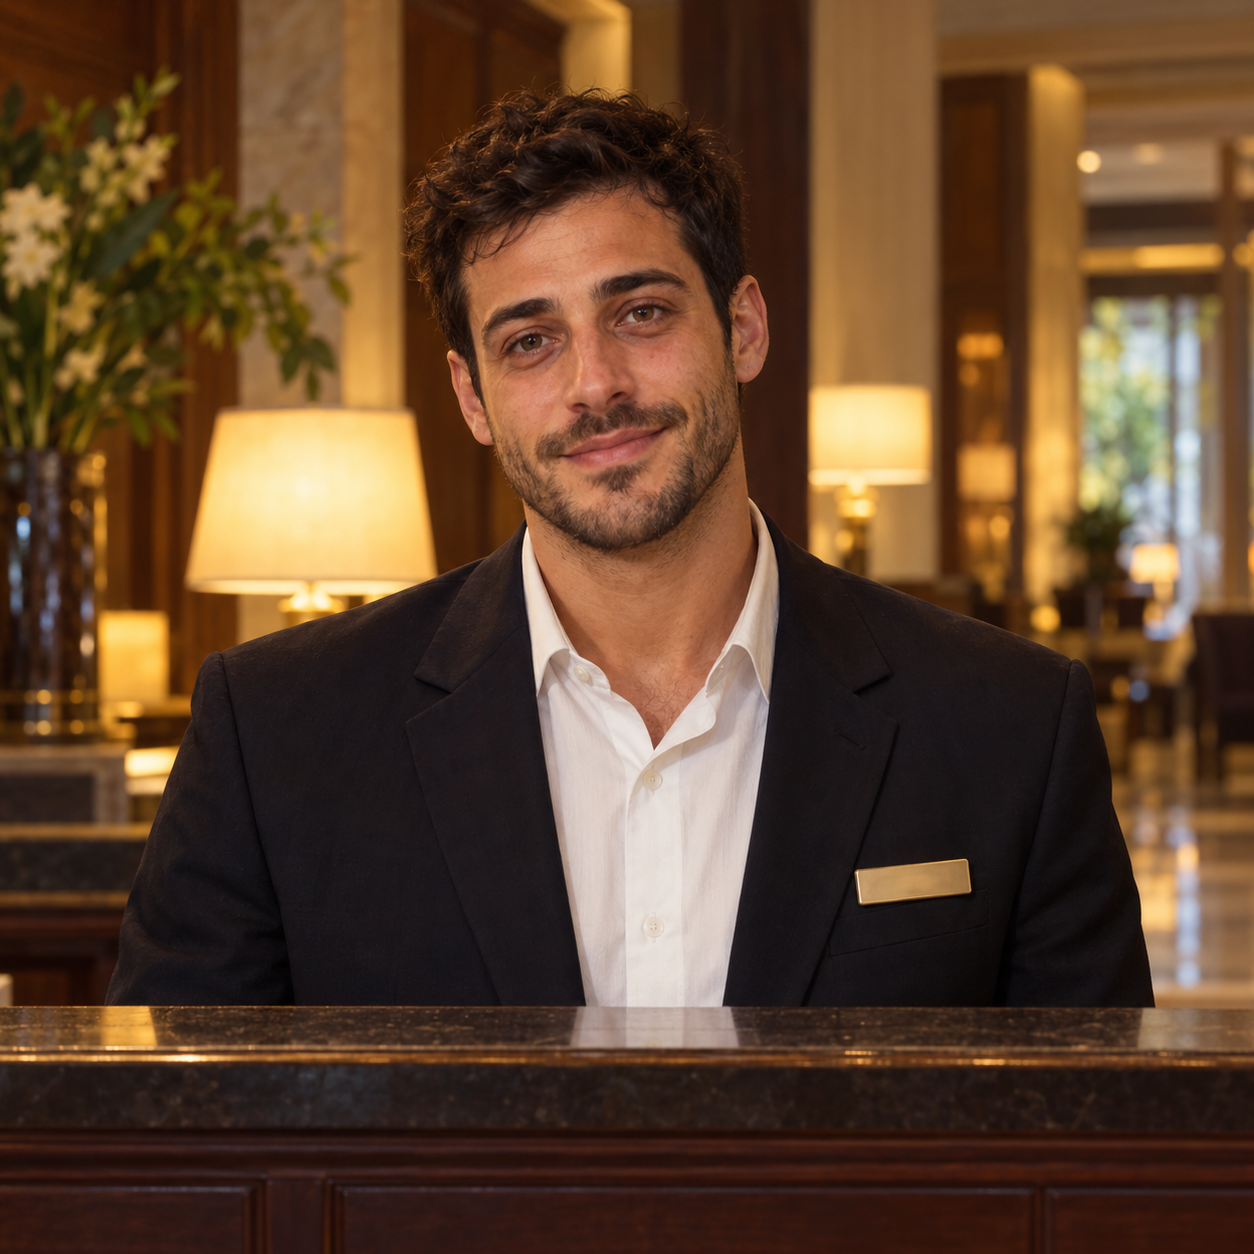
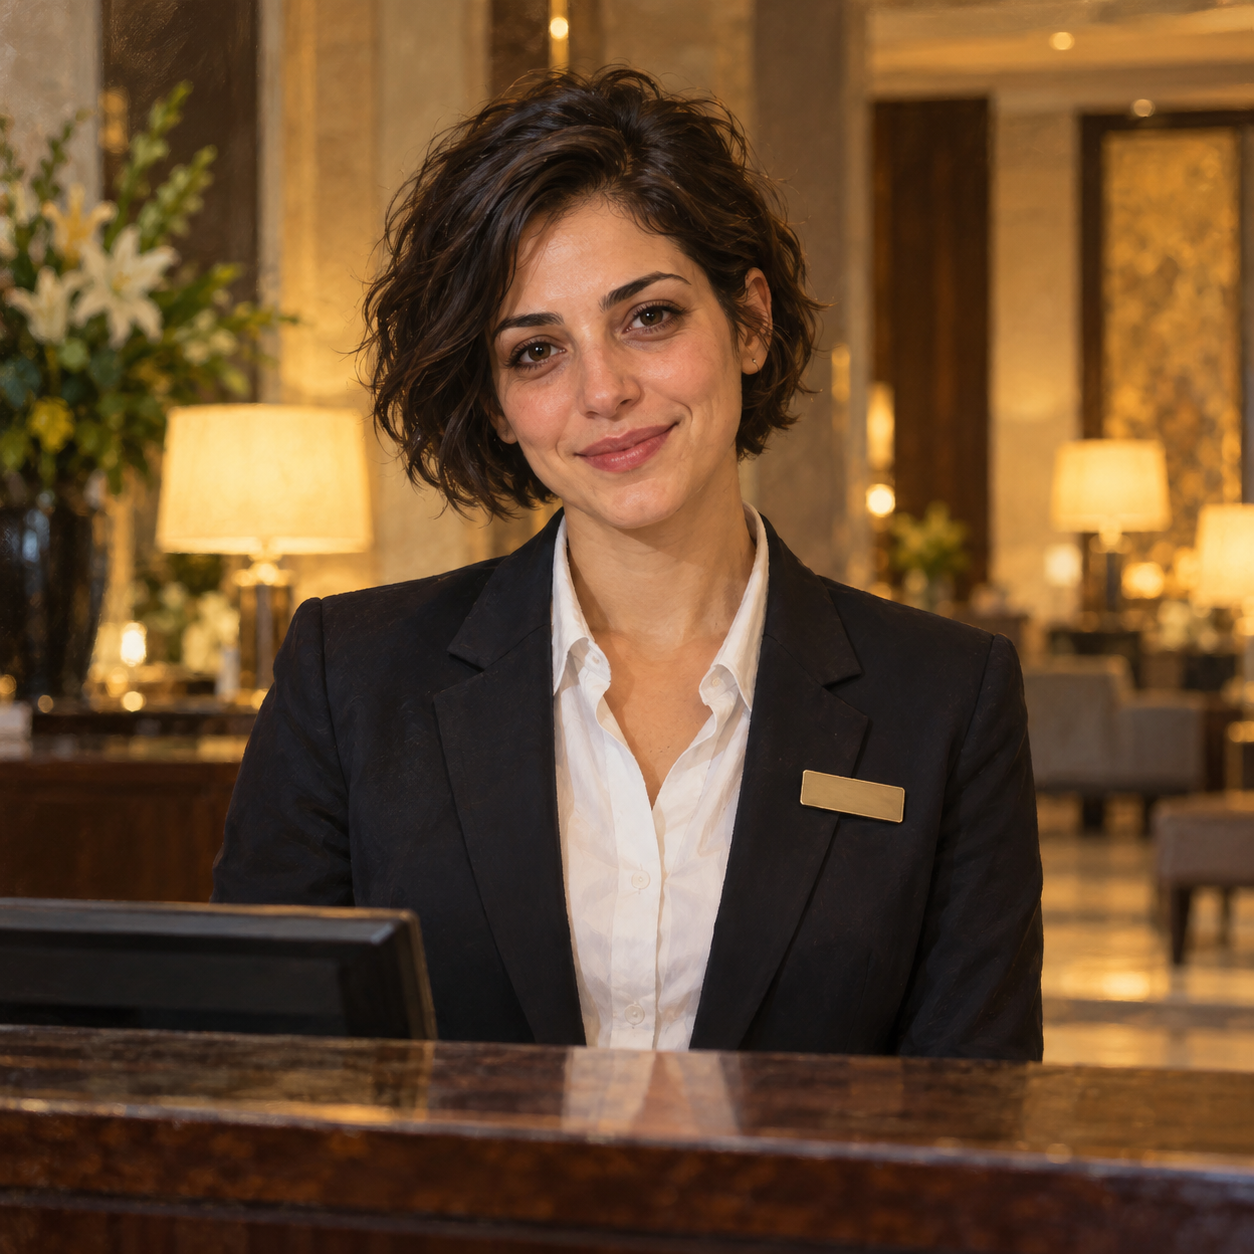
Hotel: the night clerk checks you in, the morning clerk has your message
Claude-Session: https://claude.ai/code/session_01L1pMk9pvWmofH5XXpyXNuy

diff --git a/app/www/js/fsy-act1.js b/app/www/js/fsy-act1.js
@@ -7,7 +7,7 @@
   const Lamp = window.Lamp; const FW = Lamp.fsyWalk; if (!FW) return;
   const H = FW.H, C = FW.core, W = FW.W, K = Lamp.adv.kit, F = Lamp.fsy.parts, esc = K.esc, $ = (id) => document.getElementById(id);
   const PP = "img/fsy/people/";
-  const PORTRAITS = new Set(["clerk", "soldier", "cardseller", "grandma", "grandma2", "yosef", "gabriel", "guide", "violinist", "halva", "baker", "dudu", "coffeeman", "fishman", "officer", "deskclerk"]);   /* the people Richard has drawn (img/fsy/people/<id>.jpg); the rest show as lettered medallions */
+  const PORTRAITS = new Set(["clerk", "soldier", "cardseller", "grandma", "grandma2", "yosef", "gabriel", "guide", "violinist", "halva", "baker", "dudu", "coffeeman", "fishman", "officer", "deskclerk", "dayclerk"]);   /* the people Richard has drawn (img/fsy/people/<id>.jpg); the rest show as lettered medallions */
   const save = () => Lamp.save();
   /* adventure state, inside the episode's save */
   const A = () => { const w = W(); if (!w.a) w.a = { money: 100, items: {}, rides: 0, facts: [], asked: {}, q: {}, f: {}, rode: {} }; return w.a; };
@@ -142,13 +142,18 @@
     ] },
     grandma2: { name: "Dudu’s grandmother", kick: "The tram stop by the market", when: (a) => a.q.dudu === 2 && a.items.loaf && a.items.coffee && a.items.fish, desc: "At the stop at the end of the lane, bags at her feet, looking for a boy with a football.", lines: [
       { id: "back", say: "I’ve brought Dudu. And the shopping.", run: () => { A().q.dudu = 3; delete A().items.loaf; delete A().items.coffee; delete A().items.fish; save();
-        reply("grandma2", "<i>You hand her the bread, the coffee and the fish: they leave your backpack.</i> “You brought him back and you brought the fish.” She takes the bags, then takes your hand. “I will tell you something for that.” From her purse, a folded paper. “My prayer. I go to the tunnel every week, to the place opposite the Holy of Holies, and I put it in the Wall. This week you put it in for me.” She closes your fingers over it. “And when you are there, look up.”", { clip: "grandma2", leave: () => { H.earn(45, "Dudu’s grandmother"); give("note"); fact("note", "Put the grandmother’s prayer in the Wall opposite the Holy of Holies, in the tunnels. Then look up."); } }); } },
+        reply("grandma2", "(You hand her the bread, the coffee and the fish: they leave your backpack.) “You brought him back and you brought the fish.” She takes the bags, then takes your hand. “I will tell you something for that.” From her purse, a folded paper. “My prayer. I go to the tunnel every week, to the place opposite the Holy of Holies, and I put it in the Wall. This week you put it in for me.” She closes your fingers over it. “And when you are there, look up.”", { clip: "grandma2", leave: () => { H.earn(45, "Dudu’s grandmother"); give("note"); fact("note", "Put the grandmother’s prayer in the Wall opposite the Holy of Holies, in the tunnels. Then look up."); } }); } },
     ] },
-    deskclerk: { name: "The desk clerk", kick: "The Jerusalem Hotel", desc: "A young man in a dark blazer with a name badge, tired eyes, a kind smile. He has seen every kind of pilgrim.", lines: [
-      { id: "checkin", say: "I'd like to check in.", when: (a) => !a.q.checkedIn, run: () => { A().q.checkedIn = 1; save(); give("roomkey"); reply("deskclerk", "“Welcome. Your name?” He types, and looks up. “Yes. Three nights, already paid. An older gentleman came by this afternoon and paid in cash. No name. He said you would be tired.” He slides a key card across the desk. “Room 412. The lift is on the left.”"); } },
-      { id: "way", say: "How do I get to the Old City in the morning?", when: (a) => a.q.checkedIn, run: () => { A().q.hotelWay = 1; save(); reply("deskclerk", "“The tram to City Hall, then walk down Jaffa Road: ten minutes to Jaffa Gate. Go early, before the tour buses.” He taps the window. “And do the walls in the morning. There is a storm coming in the afternoon, a big one.”"); fact("storm", "The desk clerk: go up on the walls in the morning; a big storm is coming in the afternoon."); } },
-      { id: "see", say: "What should I see first?", when: (a) => a.q.checkedIn, run: () => { A().q.hotelSee = 1; save(); reply("deskclerk", "“Go in at Jaffa Gate and up on the walls: the Ramparts Walk. The ticket office is beside the Tower of David. From up there you can count the towers and see the whole city.” He smiles. “And if you go down to the Wall, cover your head.”"); } },
-      { id: "grey", say: "Has anyone asked for me?", when: (a) => a.q.checkedIn, run: () => { A().q.hotelGrey = 1; save(); reply("deskclerk", "He hesitates. “A man telephoned this evening. Very polite. He asked whether a guest had checked in carrying an old book. I told him we do not discuss our guests.” He lowers his voice. “He knew which flight you came on.”"); fact("greyhotel", "The man in grey telephoned the hotel asking for you. He knew your flight."); } },
+    deskclerk: { name: "The night clerk", kick: "The Jerusalem Hotel", when: (a) => !a.q.slept, desc: "A young woman in a dark blazer, short dark curls, a brass name badge, a kind and tired smile. She has seen every kind of pilgrim.", lines: [
+      { id: "checkin", say: "I'd like to check in.", when: (a) => !a.q.checkedIn, run: () => { A().q.checkedIn = 1; save(); give("roomkey"); reply("deskclerk", "“Welcome. Your name?” She types, and looks up. “Yes. Three nights, already paid. An older gentleman came by this afternoon and paid in cash. No name. He said you would be tired.” She slides a key card across the desk. “Room 412. The lift is on the left.”"); } },
+      { id: "way", say: "How do I get to the Old City in the morning?", when: (a) => a.q.checkedIn, run: () => { A().q.hotelWay = 1; save(); reply("deskclerk", "“The tram to City Hall, then walk down Jaffa Road: ten minutes to Jaffa Gate. Go early, before the tour buses.” She nods at the window. “And do the walls in the morning. There is a storm coming in the afternoon, a big one.”"); fact("storm", "The desk clerk: go up on the walls in the morning; a big storm is coming in the afternoon."); } },
+      { id: "see", say: "What should I see first?", when: (a) => a.q.checkedIn, run: () => { A().q.hotelSee = 1; save(); reply("deskclerk", "“Go in at Jaffa Gate and up on the walls: the Ramparts Walk. The ticket office is beside the Tower of David. From up there you can count the towers and see the whole city.” She smiles. “And if you go down to the Wall, cover your head.”"); } },
+      { id: "grey", say: "Has anyone asked for me?", when: (a) => a.q.checkedIn, run: () => { A().q.hotelGrey = 1; save(); reply("deskclerk", "She hesitates. “A man telephoned this evening. Very polite. He asked whether a guest had checked in carrying an old book. I told him we do not discuss our guests.” She lowers her voice. “He knew which flight you came on.”"); fact("greyhotel", "The man in grey telephoned the hotel asking for you. He knew your flight."); } },
+    ] },
+    dayclerk: { name: "The morning clerk", kick: "The Jerusalem Hotel", when: (a) => a.q.slept, desc: "A young man in a dark blazer, curly hair, two days of stubble, a coffee on the desk beside him. Cheerful at seven in the morning.", lines: [
+      { id: "msg", say: "Good morning. Any messages for 412?", when: (a) => !a.items.hotelnote, run: () => { give("hotelnote"); reply("dayclerk", "“Good morning! Yes, this was left at the desk for you in the night. It was here when I came on at six.” He hands you an envelope: hotel notepaper, folded once, no name.<br><br><b>“Welcome to Jerusalem. Rest well. The north is cold at this time of year.”</b><br><br>Neat handwriting, no signature: the same polite hand as the card that said NOT NORTH.", { leave: () => C.finish("hotel") }); } },
+      { id: "who", say: "Who left it?", when: (a) => a.items.hotelnote, run: () => { A().q.whoNote = 1; save(); reply("dayclerk", "He checks the night book. “It says: a gentleman in a grey coat, very polite. He did not want a receipt.” He looks up. “Is everything all right?”"); } },
+      { id: "way", say: "Which way to Jaffa Gate?", run: () => { A().q.hotelWay = 1; save(); reply("dayclerk", "“Tram to City Hall, then straight down Jaffa Road. Ten minutes on foot. Go now, before the buses.” He glances at the sky outside. “And the walls this morning, not this afternoon. They say a storm.”"); } },
     ] },
     halva: { name: "The halva seller", kick: "Deeper in", desc: "A thin old man behind slabs of halva, a long knife in his hand, eyes everywhere.", lines: [
       { id: "piece", say: "Try a piece?", run: () => reply("halva", "“Pistachio. Two shekels.” The knife pauses. “Or free, if you tell me what you are looking for.”", { btn: "“A man’s journal.”", then: () => { A().q.greyKG = 1; save(); reply("halva", "He cuts you a piece. “Then you are the second person today. The first wore grey and did not buy halva. He went toward the city. King George Street, I think.” He wipes the knife. “Not a nice man.”"); fact("greykg", "The man in grey went toward King George Street."); } }) },
@@ -207,6 +212,7 @@
       { r: () => { a.rides--; a.rode[key] = 1; save(); if (key === "model") F.S("step", "click", 0.6); else F.S("trambell", "click", 0.7); then(); }, x: () => {} });
     return false;
   }
+  H.slept = () => { A().q.slept = 1; save(); };
   H.canSleep = () => { if (A().q.checkedIn) return true; K.say("Check in at the front desk first.", "", 2600); return false; };
   H.before = (scene, v, prev) => {
     if (scene.id === "hotel" && v.id === "room" && !A().q.checkedIn) { K.say("You have no key yet: check in at the front desk.", "", 2800); return false; }
@@ -250,7 +256,7 @@
         ],
       benyehuda: [r("Find the number of Gabriel's shop", q.found26, "Shmuel the violinist knows"), r("Go on to the shop", w.done.benyehuda, "Past the corner")],
       gabriel: [r("Talk to Gabriel", q.shopOpen, "Behind the counter"), r("Show him the journal", it.rod, "Ask about the journal"), r("Buy the map of the Old City", it.map, "His shop"), r("Buy a kippah", it.kippah, "His shop"), r("Choose a souvenir and look at it closely", w.done.gabriel, "Ask about souvenirs")],
-      hotel: [r("Check in at the front desk", q.checkedIn, "The desk clerk"), r("Ask how to get to the Old City", q.hotelWay, "The desk clerk"), r("Get some sleep", w.done.hotel, "Your room, upstairs"),
+      hotel: [r("Check in at the front desk", q.checkedIn, "The desk clerk"), r("Ask how to get to the Old City", q.hotelWay, "The desk clerk"), r("Get some sleep", q.slept, "Your room, upstairs"), r("In the morning, ask at the desk for messages", it.hotelnote, "The morning clerk"),
         r("Ask what to see first", q.hotelSee, "The desk clerk", 1), r("Ask whether anyone asked for you", q.hotelGrey, "The desk clerk", 1)],
       model: [r("Buy a museum ticket", it.museum, "At the museum"), r("Answer the guide's three questions", done("model", "modelq"), "The guide at the model"), r("Ask her about the Watchman", w.done.model, "The guide at the model"), r("Show her the frankincense", q.levShown, "If you bought it", 1)],
     };
@@ -263,6 +269,7 @@
     if (scene.id === "airport" && !W().flags.ticket) return "Read the first page. Ask at the window if you like. Buy a ticket to Jerusalem.";
     if (scene.id === "rail" && !a.items.card) return "The tram takes a travel card. The kiosk sells them. Ask the way while you are there.";
     const dudu = () => duduList(a);
+    if (scene.id === "hotel") return !a.q.checkedIn ? "Check in at the front desk, and ask the clerk about tomorrow." : !a.q.slept ? "Go up to your room and get some sleep." : "Morning. Go down to the desk and ask for messages.";
     if (scene.id === "market") { if (!done("market", "scales")) return "Find Yosef the spice seller and weigh." + dudu(); if (!a.q.sack) return "Someone in the market knew the Watchman. Ask around." + dudu(); if (!W().done.market) return "Go back to Yosef the spice seller and ask about the old sack in his corner." + dudu(); if (a.q.dudu === 2) return dudu().slice(3); }
     if (scene.id === "benyehuda") return a.q.found26 ? "Number 26 is past the corner. Go on to Gabriel’s." : "Find the number of Gabriel’s shop. The page gave you a verse; the halva seller gave you the chapter. The Journal can show it to you.";
     if (scene.id === "gabriel") { if (!a.q.shopOpen) return "Talk to Gabriel."; if (!a.items.rod) return "Show Gabriel the journal."; if (!a.items.map || !a.items.kippah) return "Buy the map and a kippah for the Old City. Then choose a souvenir."; if (!W().done.gabriel) return "Choose a souvenir: buy the model and look at it closely."; }
@@ -319,7 +326,7 @@
     ["card", "frankincense", "note", "rod", "map", "kippah", "model", "museum", "greycard"].forEach((id) => (a.items[id] = 1));
     a.rides = 1; a.money = 20; Object.assign(a.rode, { rail: 1, benyehuda: 1, model: 1 });
     w.flags.ticket = 1; w.flags.bekah = 1; w.flags.modelq = 1; w.flags.passport = 1; a.items.slip = 1; w.done["airport:passport"] = 1;
-    ["airport", "train", "rail", "market", "benyehuda", "gabriel", "model", "hotel"].forEach((id) => (w.done[id] = 1)); Object.assign(a.q, { checkedIn: 1, hotelWay: 1 }); a.items.roomkey = 1; a.items.hotelnote = 1;
+    ["airport", "train", "rail", "market", "benyehuda", "gabriel", "model", "hotel"].forEach((id) => (w.done[id] = 1)); Object.assign(a.q, { checkedIn: 1, hotelWay: 1, slept: 1 }); a.items.roomkey = 1; a.items.hotelnote = 1;
     ["airport:ticket", "train:board", "market:scales", "gabriel:souvenir", "model:modelq"].forEach((k) => (w.done[k] = 1));
     [1, 2, 3, 4].forEach((n) => (w.pages[n] = 1)); save();
   };

diff --git a/app/www/js/fsy-route.js b/app/www/js/fsy-route.js
@@ -127,7 +127,7 @@
     views: [
       { id: "outside", img: "hotel-sign", cap: "The Jerusalem Hotel: its name lit on the pale stone, in English and Hebrew", go: { fwd: "desk" },
         hank: "The Jerusalem Hotel. A bed, a door that locks, and a night to think. Tomorrow, the Old City." },
-      { id: "desk", img: "hotel-desk", cap: "The front desk: polished wood, a bell, a rack of maps, and the night clerk behind it", go: { back: "outside", fwd: "room" }, who: ["deskclerk"] },
+      { id: "desk", img: "hotel-desk", cap: "The front desk: polished wood, a bell, a rack of maps, and the night clerk behind it", go: { back: "outside", fwd: "room" }, who: ["deskclerk", "dayclerk"] },
       { id: "room", img: "hotel-room", cap: "Your room: two beds made up tight, a lamp, a chair by the curtains", go: { back: "desk" }, puzzle: "sleep",
         hank: "Read the pages again before you sleep. Four pages, four places. The Watchman never wastes a word.",
         hots: [{ box: [48, 38, 22, 14], label: "The nightstand", act: "readjournal" }, { box: [0, 2, 28, 50], label: "The curtains", text: "You pull the curtain aside. The city lights run down the hills toward the dark of the Old City walls. Somewhere out there is the wall you will climb tomorrow." }] },
@@ -1084,9 +1084,9 @@
       K.card('<div class="kick">The Jerusalem Hotel</div><h2>Night</h2><p>You put the journal on the nightstand and turn off the lamp. Traffic on the hill, a bus sighing at a stop, a dog somewhere. Then the city goes quiet, and so do you.</p><button class="cta" data-act="x">Sleep</button>',
         { x: () => { const sh = document.createElement("div"); sh.className = "fnight"; K.root().appendChild(sh); setTimeout(() => sh.classList.add("on"), 30);
           setTimeout(() => { if (!K.root()) return; sh.classList.add("day");
-            K.card('<div class="kick">The Jerusalem Hotel</div><h2>Morning</h2><p>Bells somewhere far off, and sunlight on the curtains. On the carpet by the door, an envelope that was not there last night: hotel notepaper, folded once, no name.</p>' +
-              '<div class="fhim">“Welcome to Jerusalem. Rest well. The north is cold at this time of year.”</div><p class="fsmall">Neat handwriting. No signature. The same polite hand as the card that said NOT NORTH.</p><button class="cta" data-act="x">Keep it, and go</button>',
-              { x: () => { sh.remove(); if (H.give) H.give("hotelnote"); pzDone("sleep", () => finish("hotel")); } }); }, 2600); } });
+            K.card('<div class="kick">The Jerusalem Hotel</div><h2>Morning</h2><p>Bells somewhere far off, sunlight on the curtains, the smell of coffee from downstairs. You pack the journal and the rod, and go down. The night clerk has gone home; a young man in a blazer is on the desk now.</p>' +
+              '<button class="cta" data-act="x">Go down to the desk</button>',
+              { x: () => { sh.remove(); if (H.slept) H.slept(); pzDone("sleep", () => walk(V("desk"))); } }); }, 2600); } });
     } },
     incense: { label: "The Watchman’s sack", run: () => {
       const SP = [["cinnamon", "Cinnamon", "קינמון", 0, "Cinnamon went into the anointing oil, not the incense. Read the tag again."],

diff --git a/docs/fsy/FIX-LIST.md b/docs/fsy/FIX-LIST.md
@@ -96,3 +96,4 @@ Last build sent: v3z (fixes 1–12 below; 11 still to do). App Store name: Lamp 
 | 3 | Richard's spice-table photo (the bowls only, no people) behind Yosef's scales and the incense weighing | Done in code, waiting for the build |
 | 4 | The Dung Gate sign (Richard's photo) as a view beside the gate: tap it for Nehemiah 3:14 | Done in code, waiting for the build |
 | 5 | Richard's front desk painting and the desk clerk's face in the hotel | Done in code, waiting for the build |
+| 6 | Two hotel clerks: the night clerk (Richard's young woman) checks you in; after you sleep, the morning clerk (the young man) hands you the note left at the desk overnight ("a gentleman in a grey coat, very polite"), and the hotel is done. Also fixed: text in italics inside a reply was nearly invisible (the grandmother's hand-over line) | Done in code, waiting for the build |
